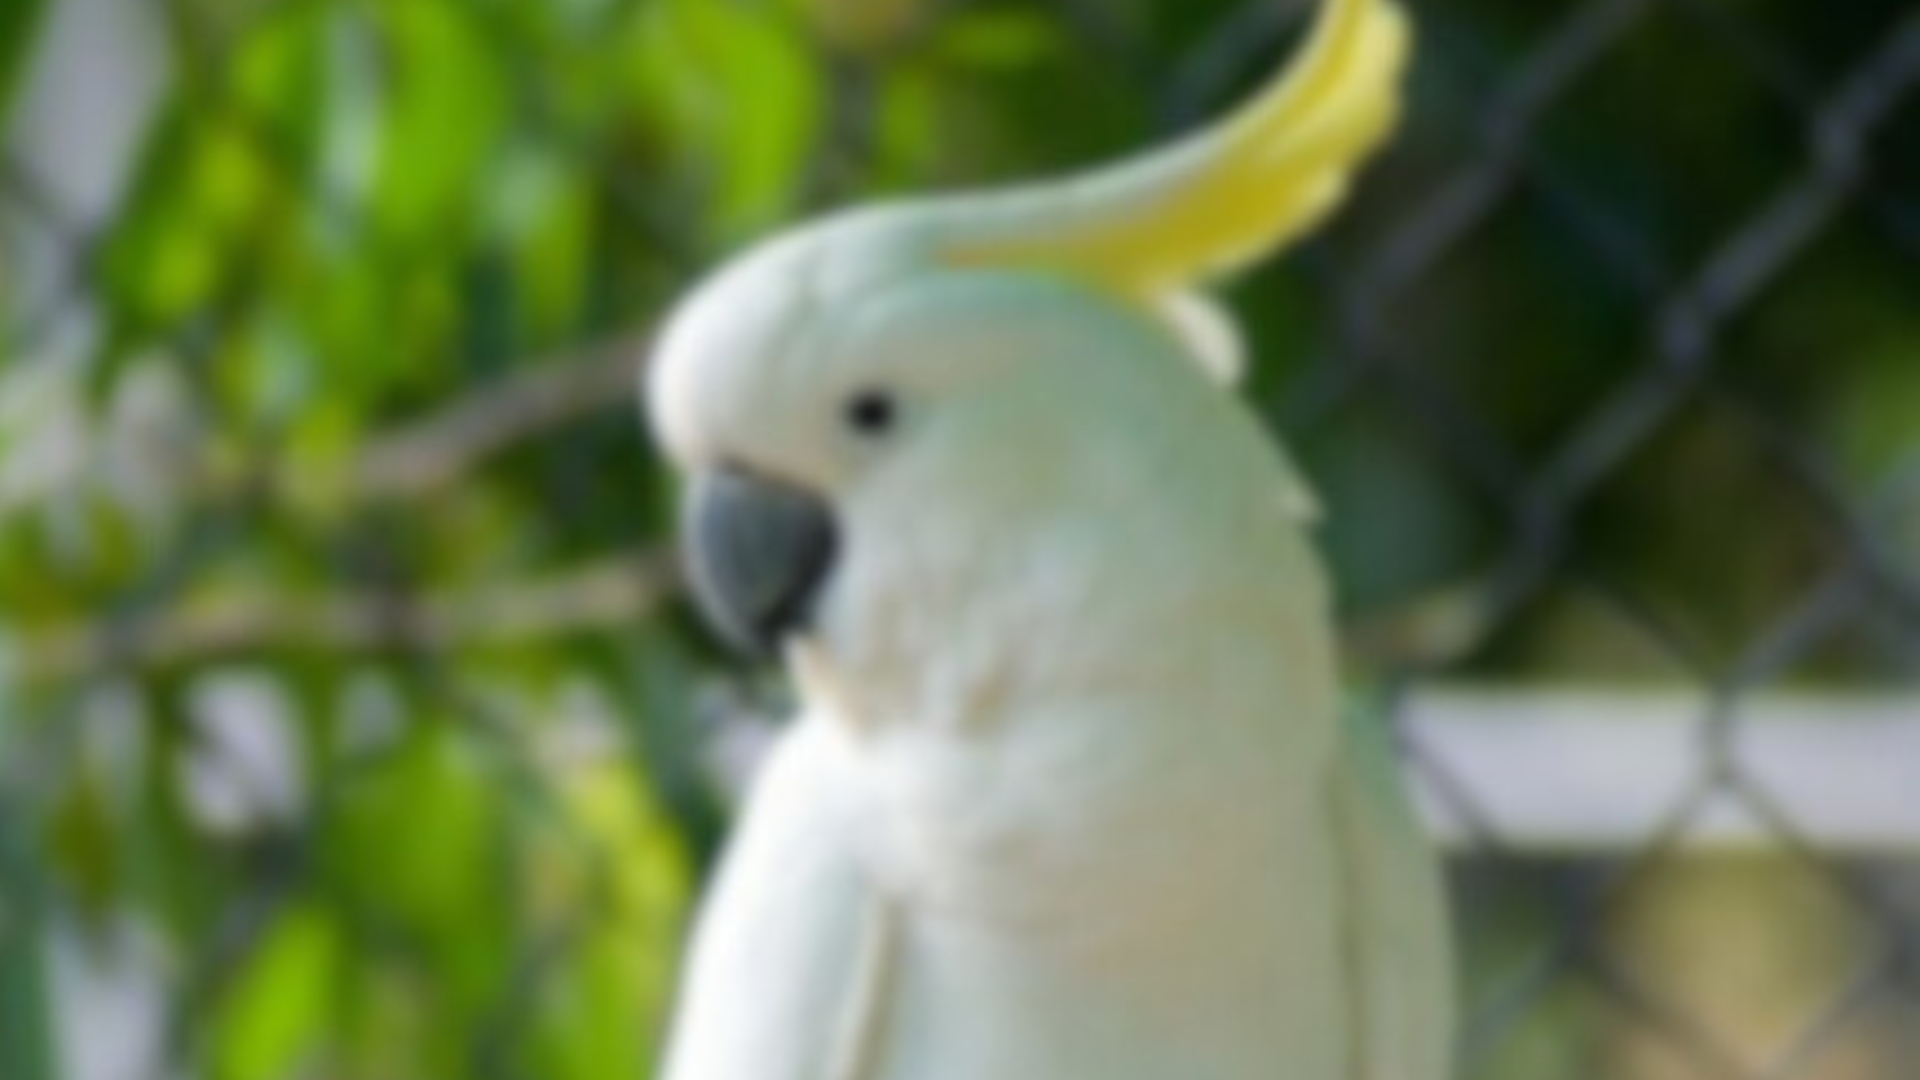
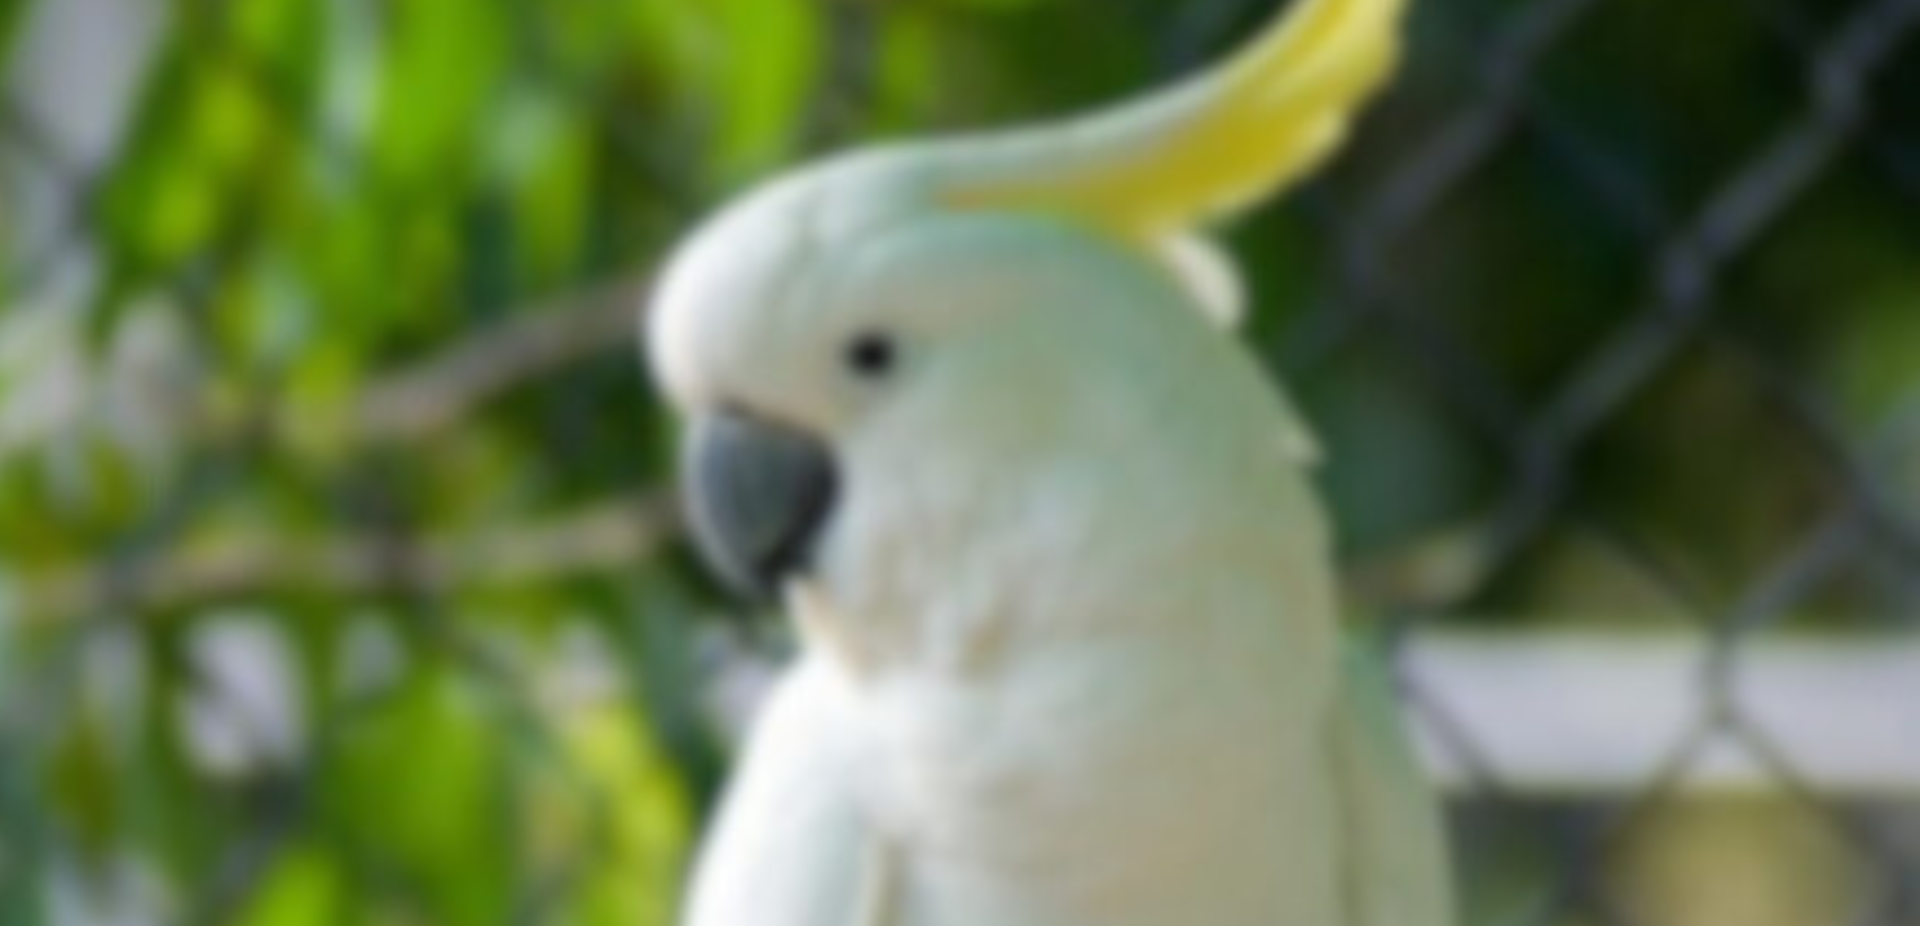
Update

diff --git a/src/pages/Contato/Contato.style.css b/src/pages/Contato/Contato.style.css
@@ -1,28 +1,67 @@
-/* Ícones */
-#div-icones-contatos {
-    width: 100%;
+#primeira-apresentacao {
+    z-index: -5;
+    position: relative  ;
     display: flex;
     align-items: center;
-    justify-content: start;
-    padding-top: 2vh;
-    flex-direction: row;
-    font-size: 30px;
-    color: var(--cor-primaria);
-}
-
-#div-icones-contatos a{
-    color: var(--cor-primaria);
-}
-
-.icones-contatos {
-    color: var(--cor-primaria);
-    margin-right: 3vw;
-}
-
-.icones-contatos:hover {
-    color: var(--cor-secundaria);
-    transition: ease-in-out 0.2s;
-}
+    justify-content: center;
+  }
+  
+  #primeira-apresentacao div {
+    position: absolute;
+    top: 50%;
+    left: 50%;
+    transform: translate(-50%, -50%);
+    text-align: center;
+  }
+  
+  #titulo-inicio-cacatuas {
+    font-size: 50px;
+    margin-top: -15vh;
+    margin-bottom: 4vh;
+    text-align: center;
+    font-weight: bolder;
+    color: var(--cor-branca);
+    text-shadow: 2px 2px 10px var(--cor-preta);
+  }
+  
+  #imagem-homepage {
+    width: 100%;
+    margin-top: -20vh;
+    filter: brightness(60%);
+  }
+  
+  #botao-contato-cacatuas {
+    background: transparent;
+    border-radius: 20px;
+    font-size: 20px;
+    border: solid 2px var(--cor-branca);
+    padding: 1vh 3vw;
+    color: var(--cor-branca);
+    text-decoration: none;
+  }
+  
+  #botao-contato:hover {
+    background: var(--cor-branca);
+    color: var(--cor-preta);
+    transition: ease-in-out 0.5s;
+    cursor: pointer;
+  }
+  
+  @media (max-width: 1080px) {
+    #titulo-inicio {
+        font-size: 17px;
+        margin-top: -8vh;
+    }
+  
+    #imagem-homepage {
+        margin-top: -13vh;
+        height: 35vh;
+    }
+  
+    #botao-contato {
+        font-size: 11px;
+    }
+  }
 
 /* Formulário */
 .formularioContato { 

diff --git a/src/pages/Home/Home.style.css b/src/pages/Home/Home.style.css
@@ -4,26 +4,26 @@
     display: flex;
     align-items: center;
     justify-content: center;
-}
-
-#primeira-apresentacao div {
+  }
+  
+  #primeira-apresentacao div {
     position: absolute;
     top: 50%;
     left: 50%;
     transform: translate(-50%, -50%);
     text-align: center;
-}
-
-#titulo-inicio {
+  }
+  
+  #titulo-inicio {
     font-size: 50px;
     margin-top: -15vh;
     text-align: center;
     font-weight: bolder;
     color: var(--cor-branca);
     text-shadow: 2px 2px 10px var(--cor-preta);
-}
-
-#nome-cacatua {
+  }
+  
+  #nome-cacatua {
     font-size: 30px;
     font-weight: bolder;
     font-style: italic;
@@ -31,15 +31,15 @@
     margin-top: -2vh;
     text-shadow: 2px 2px 10px var(--cor-preta);
     margin-bottom: 4vh;
-}
-
-#imagem-homepage {
+  }
+  
+  #imagem-homepage {
     width: 100%;
     margin-top: -20vh;
     filter: brightness(60%);
-}
-
-#botao-contato {
+  }
+  
+  #botao-contato {
     background: transparent;
     border-radius: 20px;
     font-size: 20px;
@@ -47,16 +47,16 @@
     padding: 1vh 3vw;
     color: var(--cor-branca);
     text-decoration: none;
-}
-
-#botao-contato:hover {
+  }
+  
+  #botao-contato:hover {
     background: var(--cor-branca);
     color: var(--cor-preta);
     transition: ease-in-out 0.5s;
     cursor: pointer;
-}
-
-@media (max-width: 1080px) {
+  }
+  
+  @media (max-width: 1080px) {
     #titulo-inicio {
         font-size: 17px;
         margin-top: -8vh;
@@ -66,13 +66,13 @@
         font-size: 17px;
         margin-top: 0.5px;
     }
-
+  
     #imagem-homepage {
         margin-top: -13vh;
         height: 35vh;
     }
-
+  
     #botao-contato {
         font-size: 11px;
     }
-}
+  }

diff --git a/src/pages/Cacatuas/Cacatuas.style.css b/src/pages/Cacatuas/Cacatuas.style.css
@@ -1,0 +1,64 @@
+#primeira-apresentacao {
+    z-index: -5;
+    position: relative  ;
+    display: flex;
+    align-items: center;
+    justify-content: center;
+  }
+  
+  #primeira-apresentacao div {
+    position: absolute;
+    top: 50%;
+    left: 50%;
+    transform: translate(-50%, -50%);
+    text-align: center;
+  }
+  
+  #titulo-inicio-cacatuas {
+    font-size: 50px;
+    margin-top: -15vh;
+    margin-bottom: 4vh;
+    text-align: center;
+    font-weight: bolder;
+    color: var(--cor-branca);
+    text-shadow: 2px 2px 10px var(--cor-preta);
+  }
+  
+  #imagem-homepage {
+    width: 100%;
+    margin-top: -20vh;
+    filter: brightness(60%);
+  }
+  
+  #botao-contato-cacatuas {
+    background: transparent;
+    border-radius: 20px;
+    font-size: 20px;
+    border: solid 2px var(--cor-branca);
+    padding: 1vh 3vw;
+    color: var(--cor-branca);
+    text-decoration: none;
+  }
+  
+  #botao-contato:hover {
+    background: var(--cor-branca);
+    color: var(--cor-preta);
+    transition: ease-in-out 0.5s;
+    cursor: pointer;
+  }
+  
+  @media (max-width: 1080px) {
+    #titulo-inicio {
+        font-size: 17px;
+        margin-top: -8vh;
+    }
+  
+    #imagem-homepage {
+        margin-top: -13vh;
+        height: 35vh;
+    }
+  
+    #botao-contato {
+        font-size: 11px;
+    }
+  }

diff --git a/src/pages/Cacatuas/index.jsx b/src/pages/Cacatuas/index.jsx
@@ -1,10 +1,19 @@
 import './Cacatuas.style.css';
+import Cacatua from '../../assets/img/CacatuasPageCacatuas.png';
+import { Link } from 'react-router-dom';
 import React from 'react';
 
 export function Cacatuas() {
   return (
     <>
-      <h1>Cacatuas</h1>
+        <section id='primeira-apresentacao'>
+                <img src={Cacatua} alt="Cacatua" id='imagem-homepage' />
+
+                <div>
+                    <h1 id='titulo-inicio-cacatuas'>Cacatuas galerita</h1>
+                    <Link to="/contato" id='botao-contato-cacatuas'>Quero adquirir uma</Link>
+                </div>
+        </section>
     </>
   );
 }

diff --git a/src/pages/Contato/index.jsx b/src/pages/Contato/index.jsx
@@ -1,5 +1,6 @@
 import './Contato.style.css';
 import React from 'react';
+import Cacatua from '../../assets/img/CacatuasContato.png';
 import { useEffect } from 'react';
 
 export function Contato() {
@@ -9,7 +10,14 @@ export function Contato() {
 
     return (
         <>
-            <h1>Contato</h1>
+            <section id='primeira-apresentacao'>
+                <img src={Cacatua} alt="Cacatua" id='imagem-homepage' />
+
+                <div>
+                    <h1 id='titulo-inicio-cacatuas'>Fale Conosco</h1>
+                    <div></div>
+                </div>
+            </section>
         </>
     );
 }
